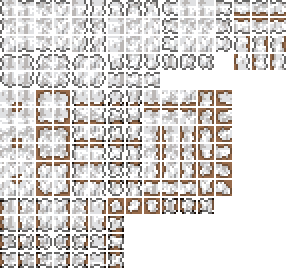
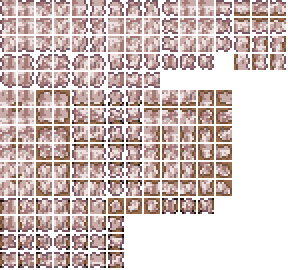
placeholder: black powder, frigorific salt, rock salt textures

diff --git a/src/TrelamiumIII/Content/Items/Alchemy/Reagents/SoluteID.cs b/src/TrelamiumIII/Content/Items/Alchemy/Reagents/SoluteID.cs
@@ -210,6 +210,7 @@ public sealed class SoluteID : ICustomAutoload
 
         FrigorificSalt = Add(mod, new SoluteItem("FrigorificSaltItem")
         {
+            TexturePath = AssetReferences.Content.Items.Alchemy.Reagents.FrigorificSalt.KEY,
             Rare = ItemRarityID.Blue,
             Value = Item.sellPrice(silver: 3),
             AlmanacPotency = 3,
@@ -240,6 +241,7 @@ public sealed class SoluteID : ICustomAutoload
 
         BlackPowder = Add(mod, new SoluteItem("BlackPowderItem")
         {
+            TexturePath = AssetReferences.Content.Items.Alchemy.Reagents.BlackPowder.KEY,
             Rare = ItemRarityID.Orange,
             Value = Item.sellPrice(silver: 6),
             AlmanacPotency = 4,

diff --git a/src/TrelamiumIII/Content/Items/Lodestone/Lodestone.cs b/src/TrelamiumIII/Content/Items/Lodestone/Lodestone.cs
@@ -1,6 +1,5 @@
 using TrelamiumIII.Core.Alchemy;
 using TrelamiumIII.Utilities;
-using Terraria.DataStructures;
 
 namespace TrelamiumIII.Content.Items.Lodestone;
 
